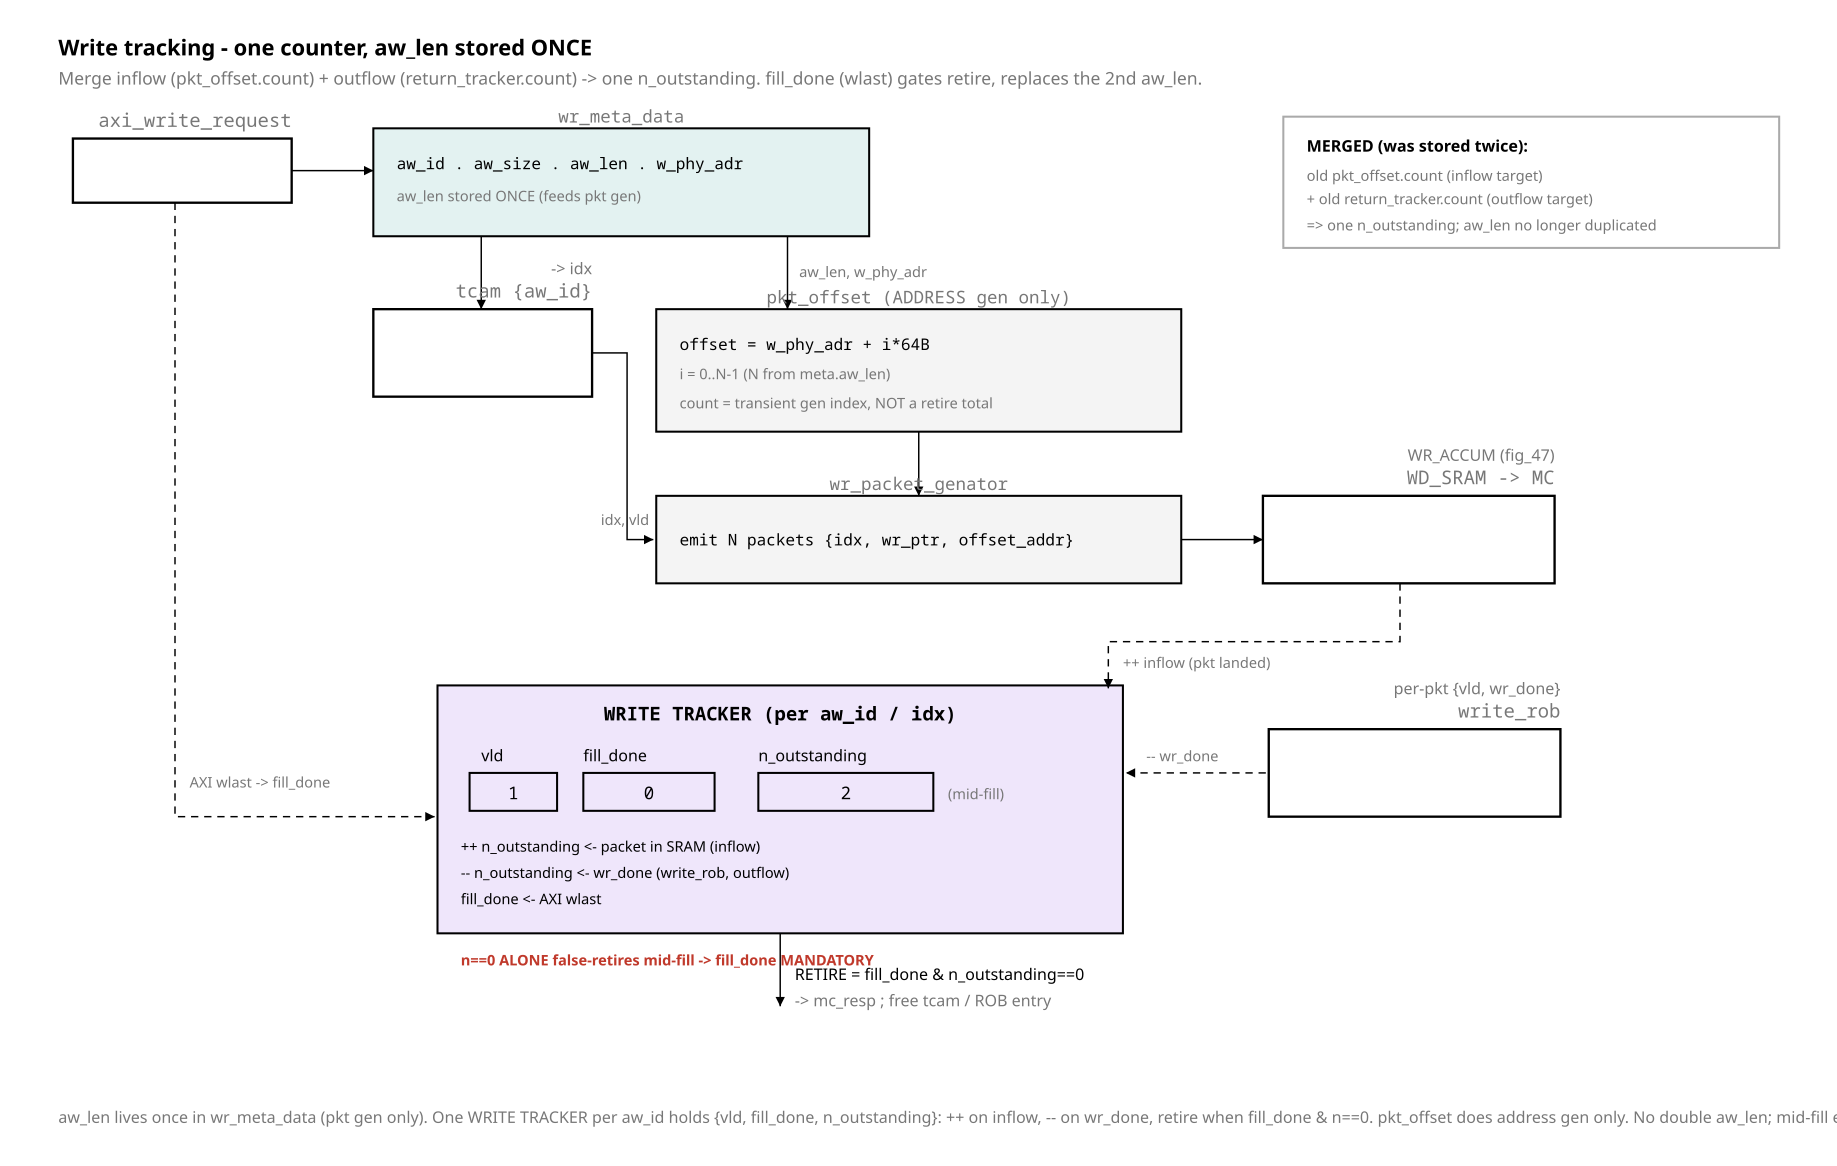
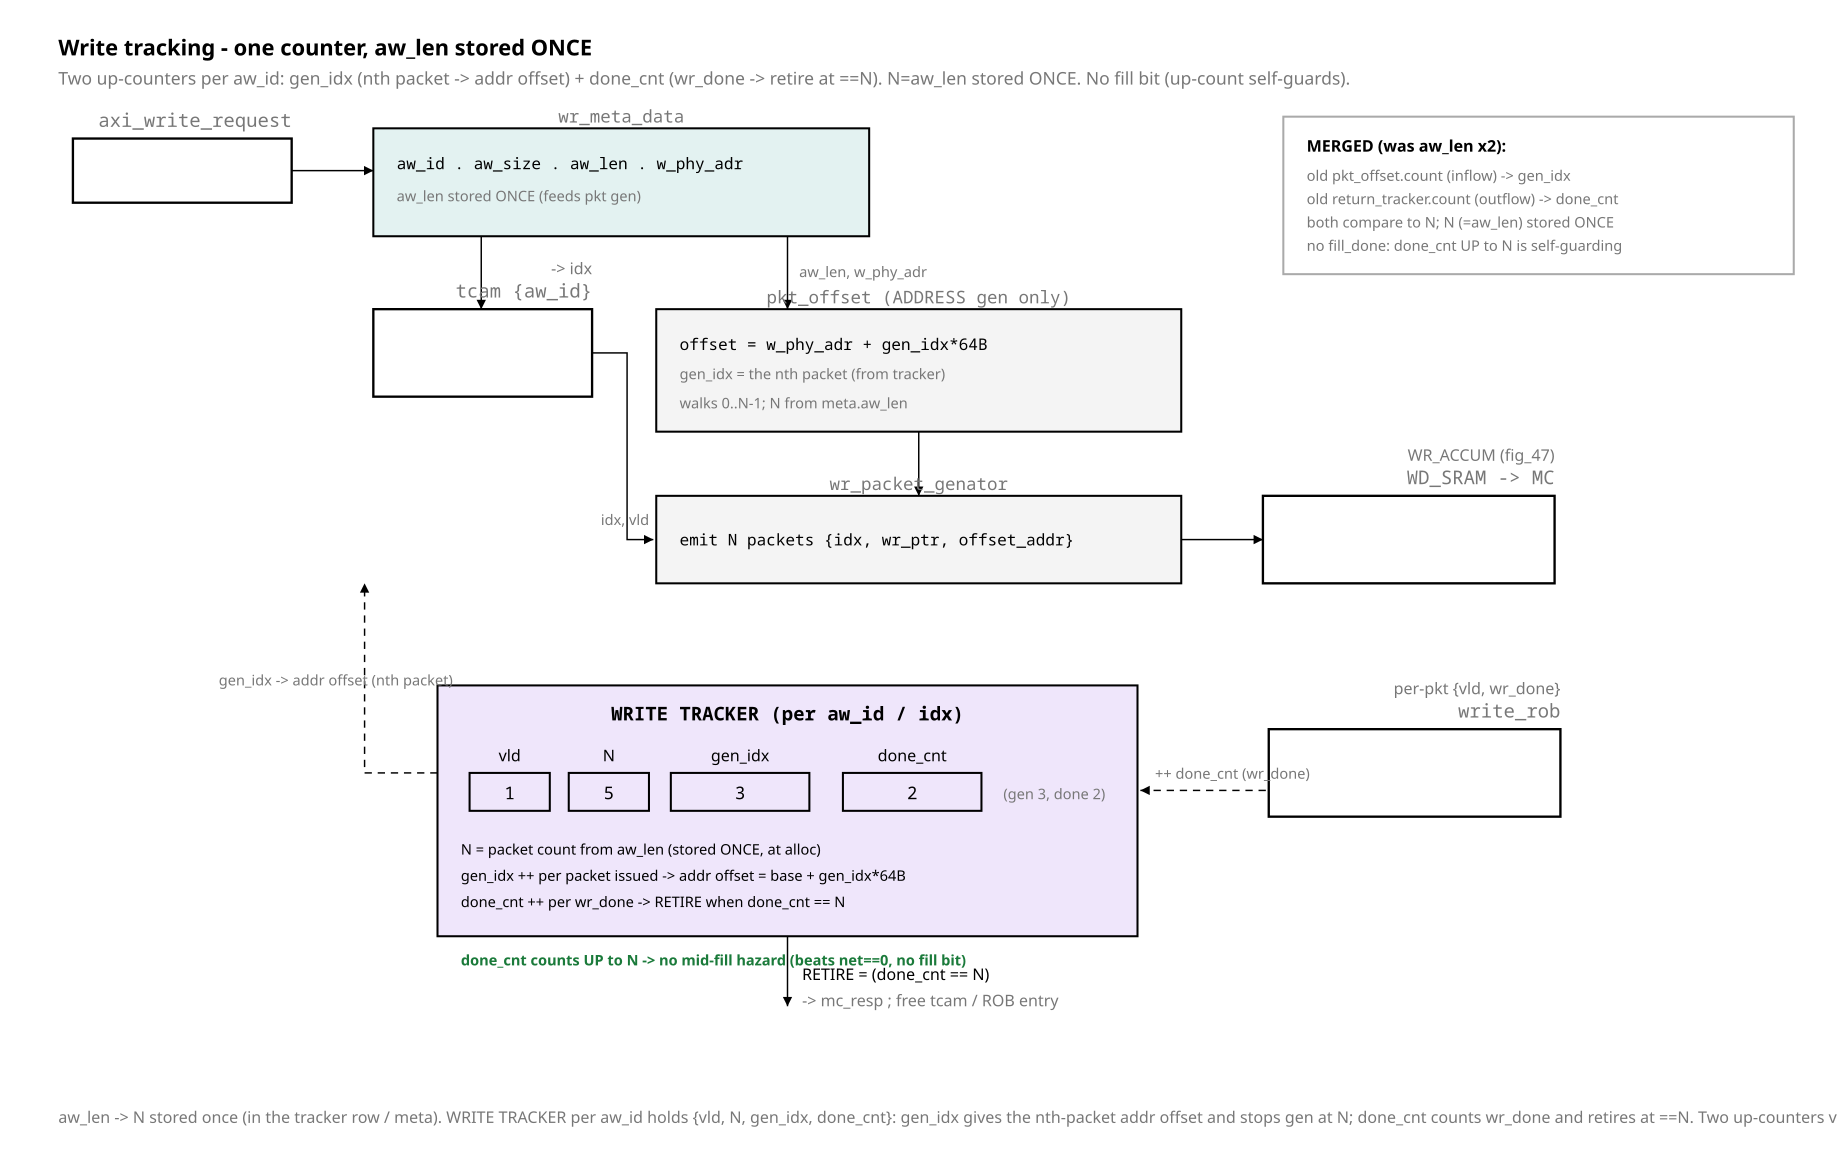
sched-rebuild: fig_48 v2 - tracker two up-counters {N, gen_idx, done_cnt}
gen_idx = nth packet -> addr offset (base + gen_idx*64B), stops gen at N.
done_cnt = wr_done -> retire at ==N. N (aw_len) stored once. Up-count is
self-guarding, drops the fill_done bit.

Claude-Session: https://claude.ai/code/session_01KeZpnsTmiABbSM1StVyWVX

diff --git a/docs/sched_rebuild/fig/fig_48_write_tracker.py b/docs/sched_rebuild/fig/fig_48_write_tracker.py
@@ -14,8 +14,8 @@ def cnote(x, y, s, anchor="start"):
 
 f.text(40, 38, "Write tracking - one counter, aw_len stored ONCE", size=15,
        mono=False, bold=True)
-f.note(40, 58, "Merge inflow (pkt_offset.count) + outflow (return_tracker.count) -> "
-               "one n_outstanding. fill_done (wlast) gates retire, replaces the 2nd aw_len.")
+f.note(40, 58, "Two up-counters per aw_id: gen_idx (nth packet -> addr offset) + done_cnt "
+               "(wr_done -> retire at ==N). N=aw_len stored ONCE. No fill bit (up-count self-guards).")
 
 # ---------------- ingress + meta ----------------
 f.block(50, 95, 150, 44, "axi_write_request")
@@ -34,10 +34,9 @@ f.line(540, 162, 540, 212, arrow=True)
 cnote(548, 190, "aw_len, w_phy_adr")
 f.rect(450, 212, 360, 84, fill=FILL_LOGIC, width=W_CELL)
 f.text(630, 208, "pkt_offset  (ADDRESS gen only)", size=12, anchor="middle", fill=MUTED)
-f.text(466, 240, "offset = w_phy_adr + i*64B", size=11)
-f.text(466, 260, "i = 0..N-1   (N from meta.aw_len)", size=10, mono=False, fill=MUTED)
-f.text(466, 280, "count = transient gen index, NOT a retire total", size=10,
-       mono=False, fill=MUTED)
+f.text(466, 240, "offset = w_phy_adr + gen_idx*64B", size=11)
+f.text(466, 260, "gen_idx = the nth packet (from tracker)", size=10, mono=False, fill=MUTED)
+f.text(466, 280, "walks 0..N-1; N from meta.aw_len", size=10, mono=False, fill=MUTED)
 
 # packet generator
 f.line(630, 296, 630, 340, arrow=True)
@@ -49,56 +48,51 @@ f.text(466, 374, "emit N packets {idx, wr_ptr, offset_addr}", size=11)
 f.line(810, 370, 866, 370, arrow=True)
 f.block(866, 340, 200, 60, "WD_SRAM -> MC", "WR_ACCUM (fig_47)")
 
-# ---------------- THE MERGED TRACKER ----------------
-f.rect(300, 470, 470, 170, fill=FILL_NEW, width=W_CELL)
-f.text(535, 494, "WRITE TRACKER  (per aw_id / idx)", size=13, anchor="middle", bold=True)
-# mini header + example row
-f.text(330, 522, "vld", size=11, mono=False)
-f.text(400, 522, "fill_done", size=11, mono=False)
-f.text(520, 522, "n_outstanding", size=11, mono=False)
-f.rect(322, 530, 60, 26, width=W_CELL)
-f.rect(400, 530, 90, 26, width=W_CELL)
-f.rect(520, 530, 120, 26, width=W_CELL)
-f.text(352, 548, "1", size=12, anchor="middle")
-f.text(445, 548, "0", size=12, anchor="middle")
-f.text(580, 548, "2", size=12, anchor="middle")
-cnote(650, 548, "(mid-fill)")
-f.text(316, 584, "++ n_outstanding  <- packet in SRAM (inflow)", size=10, mono=False)
-f.text(316, 602, "-- n_outstanding  <- wr_done (write_rob, outflow)", size=10, mono=False)
-f.text(316, 620, "fill_done <- AXI wlast", size=10, mono=False)
+# ---------------- THE MERGED TRACKER (two up-counters, N once) ----------------
+f.rect(300, 470, 480, 172, fill=FILL_NEW, width=W_CELL)
+f.text(540, 494, "WRITE TRACKER  (per aw_id / idx)", size=13, anchor="middle", bold=True)
+# mini header + example row: vld | N | gen_idx | done_cnt
+hdr = [("vld", 322, 55), ("N", 390, 55), ("gen_idx", 460, 95), ("done_cnt", 578, 95)]
+for nm, x, w in hdr:
+    f.text(x + w / 2, 522, nm, size=11, mono=False, anchor="middle")
+    f.rect(x, 530, w, 26, width=W_CELL)
+for val, x, w in [("1", 322, 55), ("5", 390, 55), ("3", 460, 95), ("2", 578, 95)]:
+    f.text(x + w / 2, 548, val, size=12, anchor="middle")
+cnote(688, 548, "(gen 3, done 2)")
+f.text(316, 586, "N        = packet count from aw_len  (stored ONCE, at alloc)", size=10, mono=False)
+f.text(316, 604, "gen_idx  ++ per packet issued  -> addr offset = base + gen_idx*64B", size=10, mono=False)
+f.text(316, 622, "done_cnt ++ per wr_done        -> RETIRE when done_cnt == N", size=10, mono=False)
 
-# inflow ++ (from SRAM/gen)
-f.path("M960 400 V440 H760 V472", arrow=True, dashed=True)
-cnote(770, 458, "++ inflow (pkt landed)")
-# outflow -- (write_rob)
+# gen_idx -> address offset (up to pkt gen)
+f.path("M300 530 H250 V400", arrow=True, dashed=True)
+cnote(150, 470, "gen_idx -> addr offset (nth packet)")
+# done_cnt <- write_rob
 f.block(870, 500, 200, 60, "write_rob", "per-pkt {vld, wr_done}")
-f.line(868, 530, 772, 530, arrow=True, dashed=True)
-cnote(786, 522, "-- wr_done")
-# fill_done <- wlast
-f.path("M120 139 V560 H298 V560", arrow=True, dashed=True)
-cnote(130, 540, "AXI wlast -> fill_done")
+f.line(868, 542, 782, 542, arrow=True, dashed=True)
+cnote(792, 534, "++ done_cnt (wr_done)")
 
 # retire out
-f.line(535, 640, 535, 690, arrow=True)
-f.text(545, 672, "RETIRE = fill_done & n_outstanding==0", size=11, mono=False)
-f.text(545, 690, "-> mc_resp ; free tcam / ROB entry", size=11, mono=False, fill=MUTED)
+f.line(540, 642, 540, 690, arrow=True)
+f.text(550, 672, "RETIRE = (done_cnt == N)", size=11, mono=False)
+f.text(550, 690, "-> mc_resp ; free tcam / ROB entry", size=11, mono=False, fill=MUTED)
 
-# BUG note
-f.text(316, 662, "n==0 ALONE false-retires mid-fill -> fill_done MANDATORY", size=10,
-       mono=False, bold=True, fill="#c0392b")
+# up-count note
+f.text(316, 662, "done_cnt counts UP to N -> no mid-fill hazard (beats net==0, no fill bit)",
+       size=10, mono=False, bold=True, fill="#1a7a3a")
 
 # MERGED note (top-right)
-f.rect(880, 80, 340, 90, fill=PAPER, stroke=FAINT, width=W_CELL)
-f.text(896, 104, "MERGED (was stored twice):", size=11, mono=False, bold=True)
-cnote(896, 124, "old pkt_offset.count  (inflow target)")
-cnote(896, 140, "+ old return_tracker.count (outflow target)")
-cnote(896, 158, "=> one n_outstanding; aw_len no longer duplicated")
+f.rect(880, 80, 350, 108, fill=PAPER, stroke=FAINT, width=W_CELL)
+f.text(896, 104, "MERGED (was aw_len x2):", size=11, mono=False, bold=True)
+cnote(896, 124, "old pkt_offset.count (inflow) -> gen_idx")
+cnote(896, 140, "old return_tracker.count (outflow) -> done_cnt")
+cnote(896, 156, "both compare to N; N (=aw_len) stored ONCE")
+cnote(896, 172, "no fill_done: done_cnt UP to N is self-guarding")
 
 f.caption(40, 770,
-          "aw_len lives once in wr_meta_data (pkt gen only). One WRITE TRACKER per aw_id "
-          "holds {vld, fill_done, n_outstanding}: ++ on inflow, -- on wr_done, retire when "
-          "fill_done & n==0. pkt_offset does address gen only. No double aw_len; mid-fill "
-          "early-retire fixed by fill_done.")
+          "aw_len -> N stored once (in the tracker row / meta). WRITE TRACKER per aw_id holds "
+          "{vld, N, gen_idx, done_cnt}: gen_idx gives the nth-packet addr offset and stops gen "
+          "at N; done_cnt counts wr_done and retires at ==N. Two up-counters vs one N - no "
+          "double aw_len, and no fill bit needed (up-count is self-guarding).")
 
 f.save("fig_48_write_tracker.svg")
 print("wrote fig_48_write_tracker.svg")
